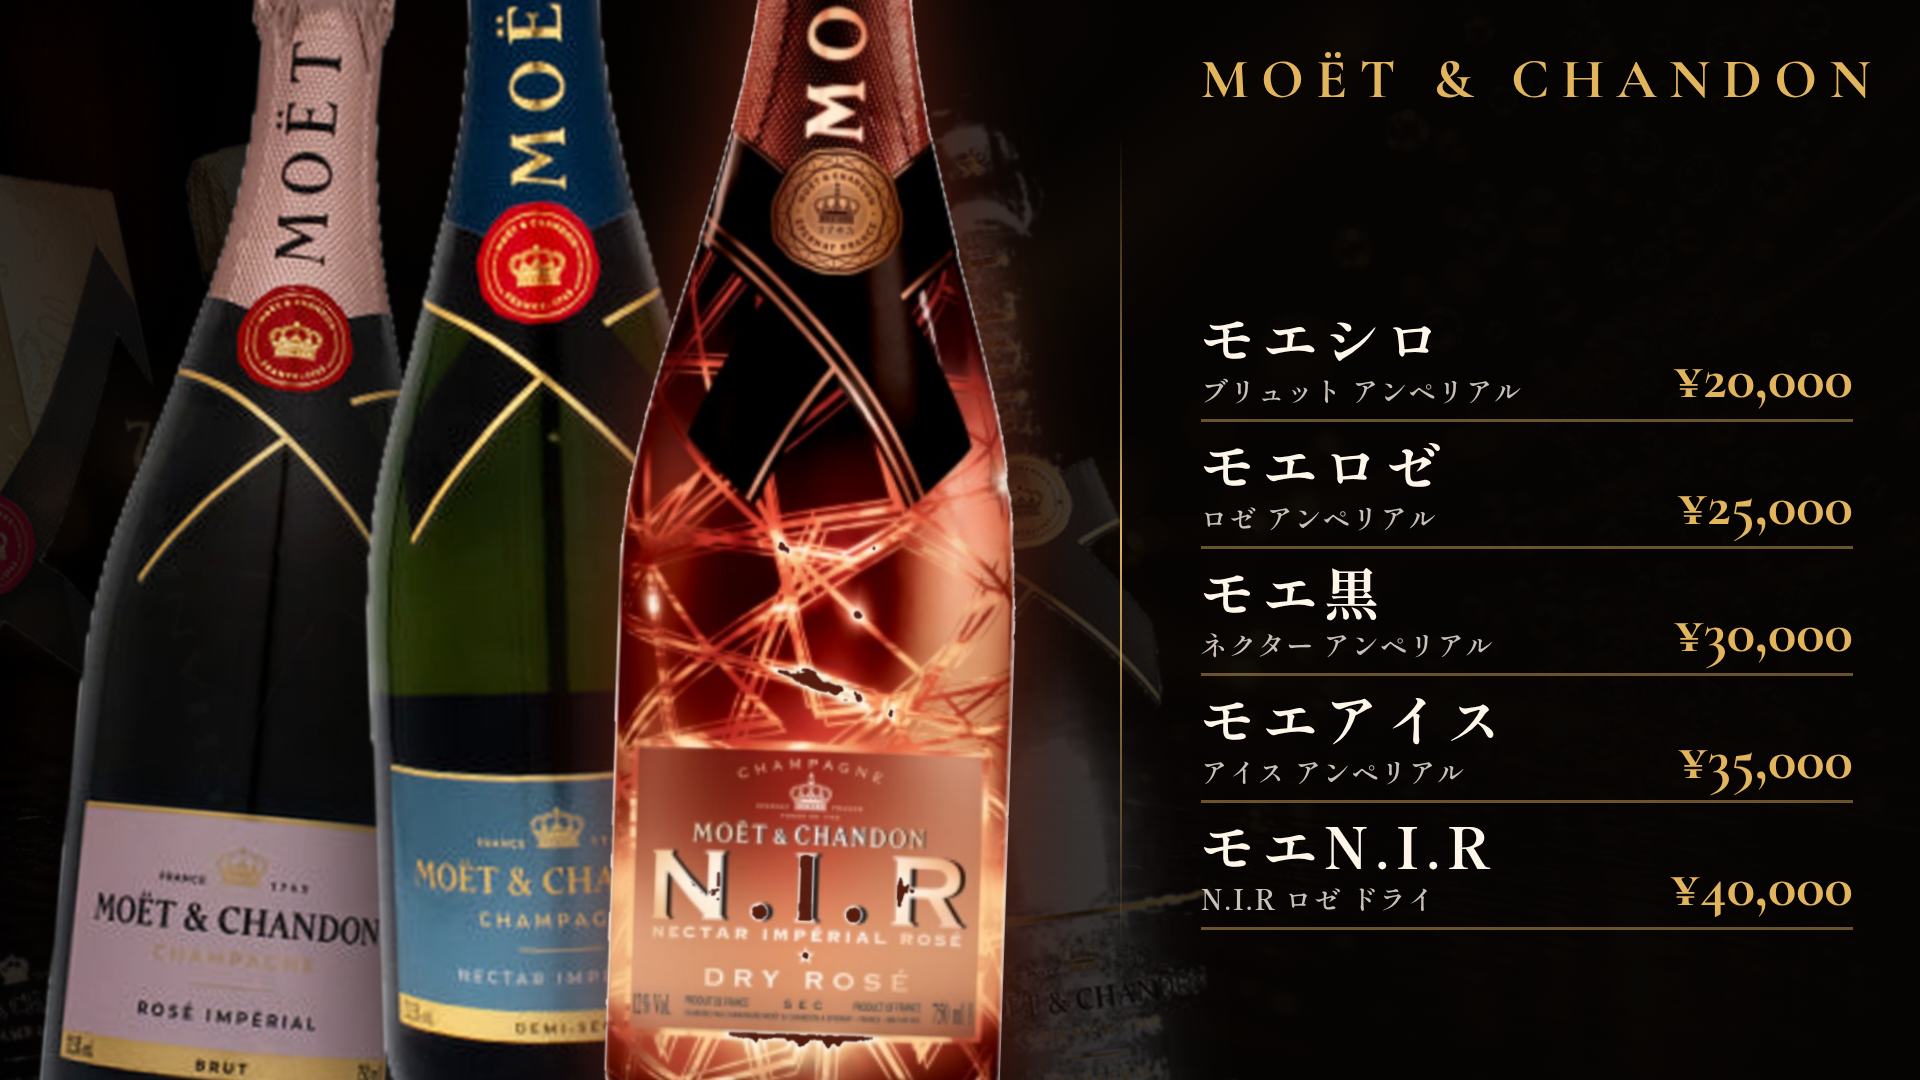
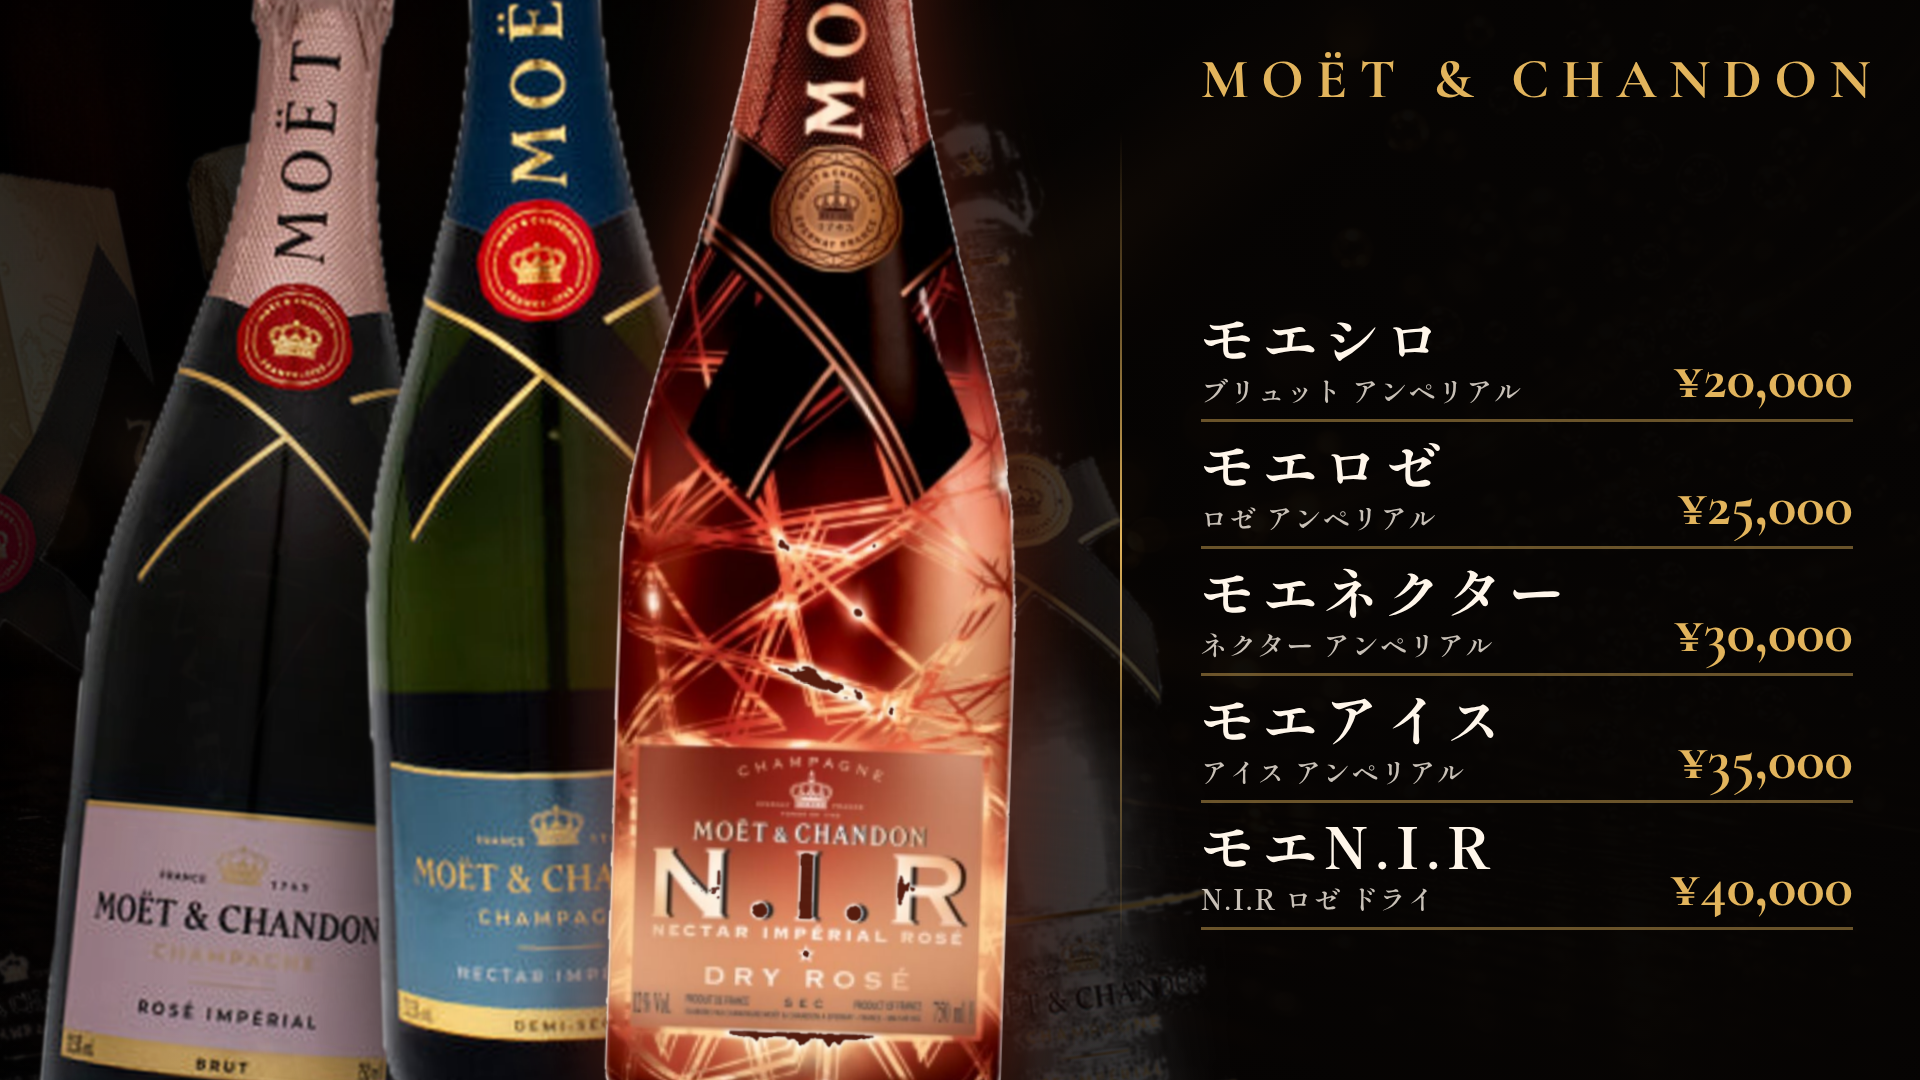
Rename モエ黒 to モエネクター on the final Moët slide

diff --git a/designs/19-trio-focus.html b/designs/19-trio-focus.html
@@ -20,7 +20,7 @@
 </div>
 <div class="panel">
 <div class="title-zone"><h1 class="title">MOËT &amp; CHANDON</h1></div>
-<div class="list"><div class="row"><div><p class="nick">モエシロ</p><p class="formal">ブリュット アンペリアル</p></div><p class="price">¥20,000</p></div><div class="row"><div><p class="nick">モエロゼ</p><p class="formal">ロゼ アンペリアル</p></div><p class="price">¥25,000</p></div><div class="row"><div><p class="nick">モエ黒</p><p class="formal">ネクター アンペリアル</p></div><p class="price">¥30,000</p></div><div class="row"><div><p class="nick">モエアイス</p><p class="formal">アイス アンペリアル</p></div><p class="price">¥35,000</p></div><div class="row"><div><p class="nick">モエN.I.R</p><p class="formal">N.I.R ロゼ ドライ</p></div><p class="price">¥40,000</p></div></div>
+<div class="list"><div class="row"><div><p class="nick">モエシロ</p><p class="formal">ブリュット アンペリアル</p></div><p class="price">¥20,000</p></div><div class="row"><div><p class="nick">モエロゼ</p><p class="formal">ロゼ アンペリアル</p></div><p class="price">¥25,000</p></div><div class="row"><div><p class="nick">モエネクター</p><p class="formal">ネクター アンペリアル</p></div><p class="price">¥30,000</p></div><div class="row"><div><p class="nick">モエアイス</p><p class="formal">アイス アンペリアル</p></div><p class="price">¥35,000</p></div><div class="row"><div><p class="nick">モエN.I.R</p><p class="formal">N.I.R ロゼ ドライ</p></div><p class="price">¥40,000</p></div></div>
 </div>
 </div>
 

diff --git a/designs/final-moet-series.html b/designs/final-moet-series.html
@@ -20,7 +20,7 @@
 </div>
 <div class="panel">
 <div class="title-zone"><h1 class="title">MOËT &amp; CHANDON</h1></div>
-<div class="list"><div class="row"><div><p class="nick">モエシロ</p><p class="formal">ブリュット アンペリアル</p></div><p class="price">¥20,000</p></div><div class="row"><div><p class="nick">モエロゼ</p><p class="formal">ロゼ アンペリアル</p></div><p class="price">¥25,000</p></div><div class="row"><div><p class="nick">モエ黒</p><p class="formal">ネクター アンペリアル</p></div><p class="price">¥30,000</p></div><div class="row"><div><p class="nick">モエアイス</p><p class="formal">アイス アンペリアル</p></div><p class="price">¥35,000</p></div><div class="row"><div><p class="nick">モエN.I.R</p><p class="formal">N.I.R ロゼ ドライ</p></div><p class="price">¥40,000</p></div></div>
+<div class="list"><div class="row"><div><p class="nick">モエシロ</p><p class="formal">ブリュット アンペリアル</p></div><p class="price">¥20,000</p></div><div class="row"><div><p class="nick">モエロゼ</p><p class="formal">ロゼ アンペリアル</p></div><p class="price">¥25,000</p></div><div class="row"><div><p class="nick">モエネクター</p><p class="formal">ネクター アンペリアル</p></div><p class="price">¥30,000</p></div><div class="row"><div><p class="nick">モエアイス</p><p class="formal">アイス アンペリアル</p></div><p class="price">¥35,000</p></div><div class="row"><div><p class="nick">モエN.I.R</p><p class="formal">N.I.R ロゼ ドライ</p></div><p class="price">¥40,000</p></div></div>
 </div>
 </div>
 

diff --git a/README.md b/README.md
@@ -19,7 +19,7 @@
 
 1. モエシロ — ブリュット アンペリアル — ¥20,000
 2. モエロゼ — ロゼ アンペリアル — ¥25,000
-3. モエ黒 — ネクター アンペリアル — ¥30,000
+3. モエネクター — ネクター アンペリアル — ¥30,000
 4. モエアイス — アイス アンペリアル — ¥35,000
 5. モエN.I.R — N.I.R ロゼ ドライ — ¥40,000
 
